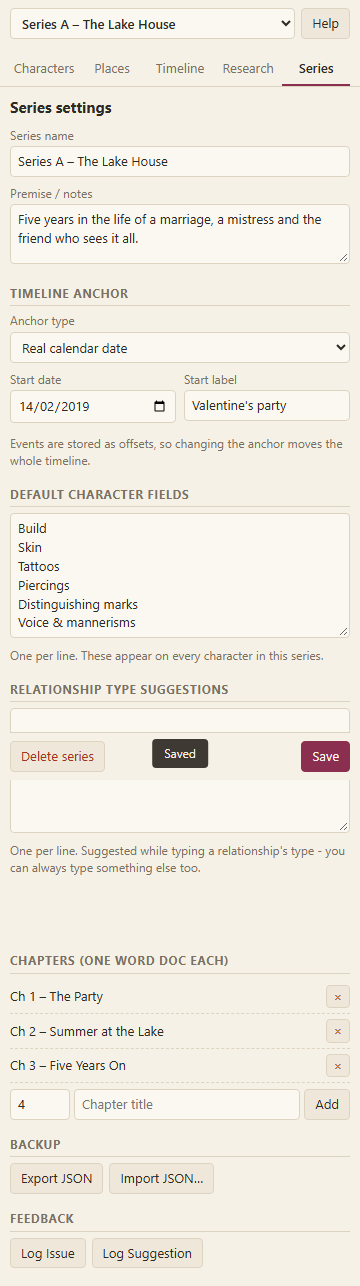
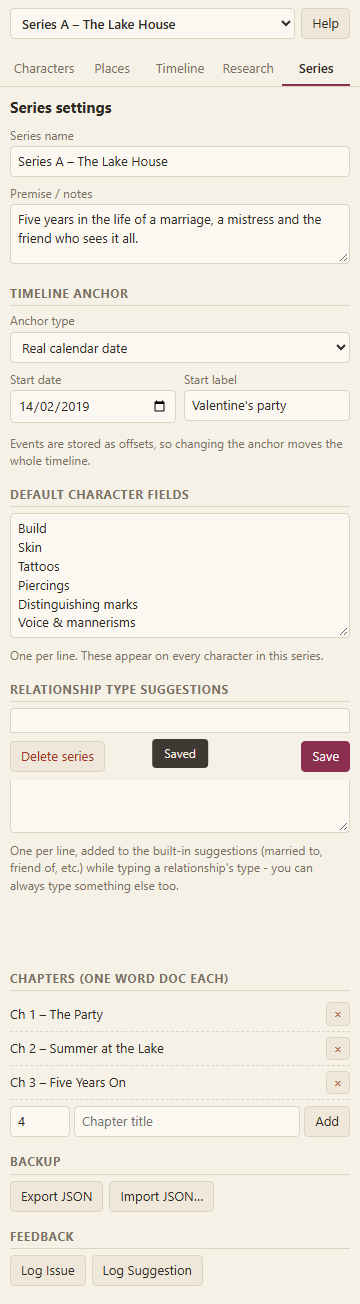
Merge built-in relationship-type suggestions with per-series custom ones (#124)
The datalist backing the relationship "type" field picked either the
series' custom relationship_types or the built-in defaults, never both -
so a series with any saved custom entries lost all 14 built-ins from the
suggestion dropdown. Union and dedupe the two lists instead, and stop
seeding new series with a full copy of the defaults now that the
datalist always includes them.

diff --git a/app/static/app.js b/app/static/app.js
@@ -632,7 +632,7 @@ function characterForm(c, isNew) {
       <button type="button" data-act="add-rel">Add</button>
     </div>
     <input id="relNote" placeholder="Note (optional)" style="margin-top:4px">
-    <datalist id="relTypes">${(S.b.series.relationship_types?.length ? S.b.series.relationship_types : REL_TYPES)
+    <datalist id="relTypes">${[...new Set([...REL_TYPES, ...(S.b.series.relationship_types || [])])]
       .map((t) => `<option value="${esc(t)}">`).join("")}</datalist>
     <div class="hint">Reads as: <b>${esc(c.name)}</b> [type] [who]</div>
     <h3>Appears in timeline</h3>
@@ -809,7 +809,7 @@ function seriesForm() {
     <div class="hint">One per line. These appear on every character in this series.</div>
     <h3>Relationship type suggestions</h3>
     <textarea data-f="relationship_types" rows="6">${esc((s.relationship_types || []).join("\n"))}</textarea>
-    <div class="hint">One per line. Suggested while typing a relationship's type - you can always type something else too.</div>
+    <div class="hint">One per line, added to the built-in suggestions (married to, friend of, etc.) while typing a relationship's type - you can always type something else too.</div>
     <div class="formbar"><div><button type="button" class="danger" data-act="delete-series">Delete series</button></div>
       <div><button class="primary" data-act="save" data-kind="series">Save</button></div></div>
   </form>
@@ -1036,7 +1036,7 @@ async function onClick(ev) {
 
 async function newSeries() {
   const s = await api("/series", "POST", { data: { name: "New series", anchor_mode: "relative",
-    anchor_label: "Story start", character_fields: DEFAULT_FIELDS, relationship_types: REL_TYPES } });
+    anchor_label: "Story start", character_fields: DEFAULT_FIELDS } });
   await loadSeriesList(); S.tab = "series"; await selectSeries(s.id); toast("Series created — name it here");
 }
 

diff --git a/docs/help/index.html b/docs/help/index.html
@@ -63,7 +63,7 @@
   <h2 id="relationship-types">4. Relationship types</h2>
   <p>When you add a relationship between two characters, the type box suggests these as you type:</p>
   <p>married to, partner of, mistress of, lover of, ex of, friend of, best friend of, sibling of, parent of, boss of, colleague of, neighbour of, rival of, flirts with.</p>
-  <p>They are only suggestions. You can type anything you like. To change the suggestions for a series, edit <strong>Relationship type suggestions</strong> in the <strong>Series</strong> tab (one per line, up to 200) and save.</p>
+  <p>They are only suggestions. You can type anything you like. To add your own suggestions for a series (on top of the defaults above), add them under <strong>Relationship type suggestions</strong> in the <strong>Series</strong> tab (one per line, up to 200) and save.</p>
 
   <h2 id="adding">5. Adding characters, places and timeline events</h2>
   <p>Use the <strong>Characters</strong>, <strong>Places</strong> and <strong>Timeline</strong> tabs. Each has an add button at the top; click an existing item to edit it. Only the name (or title) is required.</p>

diff --git a/tests/test_ui.py b/tests/test_ui.py
@@ -395,7 +395,10 @@ def test_relationship_type_suggestions_are_editable_per_series(server, browser_p
     """#63: the relationship type field was always free text (nothing
     stopped typing "enemy of" before this) - what was missing was a way to
     grow the *suggested* list itself, the same way character_fields already
-    let you customize the per-series default character fields."""
+    let you customize the per-series default character fields.
+
+    #124: per-series additions must be suggested *alongside* the built-in
+    defaults, not instead of them."""
     pg, errors = browser_page
     pg.goto(server)
     pg.wait_for_selector(".list li")
@@ -412,7 +415,13 @@ def test_relationship_type_suggestions_are_editable_per_series(server, browser_p
     pg.wait_for_selector("form[data-kind=characters]")
 
     options = pg.eval_on_selector_all("#relTypes option", "els => els.map(e => e.value)")
-    assert options == ["enemy of", "rival of"]
+    # "rival of" is already a built-in default and must not be duplicated
+    assert options == [
+        "married to", "partner of", "mistress of", "lover of", "ex of",
+        "friend of", "best friend of", "sibling of", "parent of", "boss of",
+        "colleague of", "neighbour of", "rival of", "flirts with",
+        "enemy of",
+    ]
 
     assert not errors, errors
 
